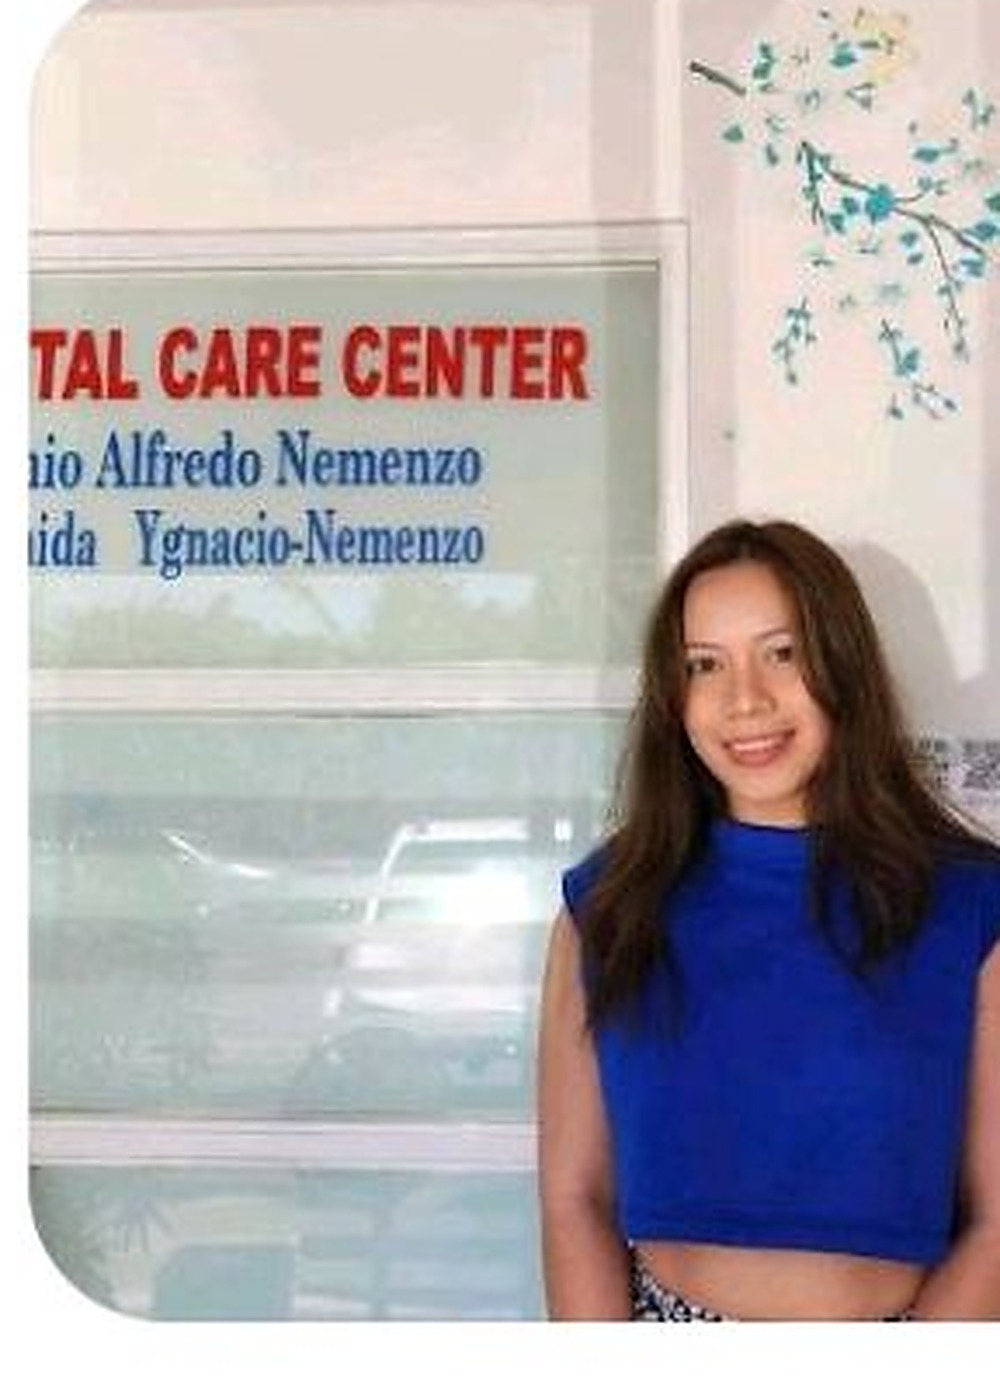
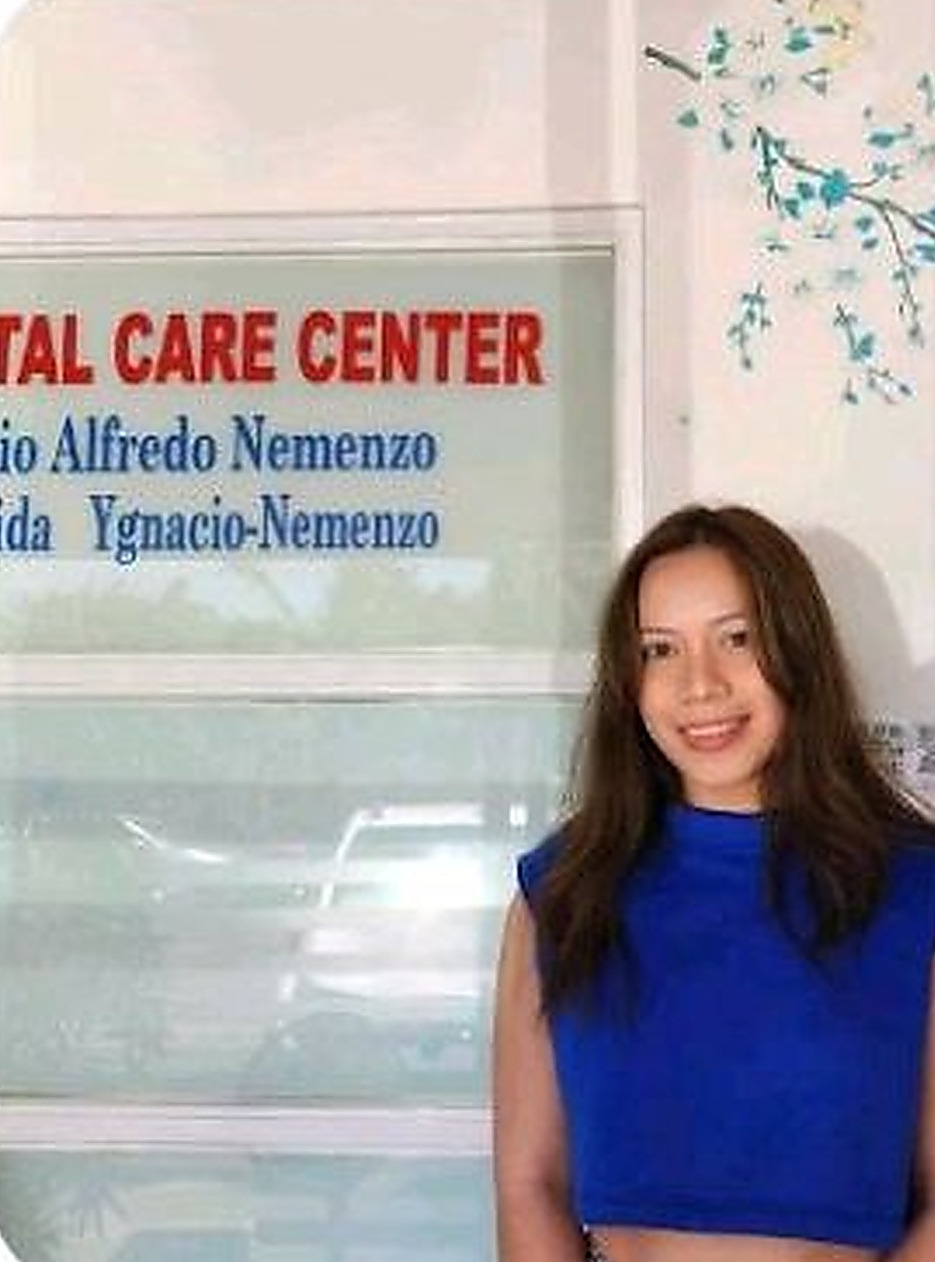
Add files via upload

diff --git a/index.html b/index.html
@@ -5,7 +5,6 @@
 <meta name="viewport" content="width=device-width, initial-scale=1">
 <title>Cebu Dental Care Center — Gentle Dentistry &amp; Online Appointments</title>
 <meta name="description" content="Book a dental appointment online at Cebu Dental Care Center, Unit 13 R Aboitiz St, Cebu City. 4.8★ from 118 Google reviews. CEREC single-visit crowns, gentle cleanings, bonding, root canals and emergency care. Call (032) 253 3206.">
-<meta name="theme-color" content="#0b5d55">
 <meta property="og:title" content="Cebu Dental Care Center — Gentle Dentistry in Cebu City">
 <meta property="og:description" content="4.8★ (118 reviews). Book online in under a minute — CEREC single-visit crowns, painless cleanings, bonding and emergency dental care.">
 <meta property="og:type" content="website">
@@ -16,9 +15,15 @@
 <link rel="stylesheet" href="assets/css/style_b.css">
 <link rel="stylesheet" href="assets/css/style_c.css">
 <link rel="stylesheet" href="assets/css/style_d.css">
-<link rel="icon" type="image/png" href="assets/img/logo-96.png">
-<link rel="apple-touch-icon" href="assets/img/logo-192.png">
+<link rel="icon" type="image/png" href="/assets/img/logo-96.png">
+<link rel="manifest" href="/manifest.webmanifest">
 <meta name="theme-color" content="#0a0907">
+<meta name="mobile-web-app-capable" content="yes">
+<meta name="apple-mobile-web-app-capable" content="yes">
+<meta name="apple-mobile-web-app-title" content="Cebu Dental">
+<meta name="apple-mobile-web-app-status-bar-style" content="black">
+<meta name="application-name" content="Cebu Dental">
+<link rel="apple-touch-icon" href="/assets/img/apple-touch-icon.png">
 <script type="application/ld+json">
 {
   "@context":"https://schema.org",
@@ -814,5 +819,10 @@
 <script src="https://www.gstatic.com/firebasejs/10.14.1/firebase-firestore-compat.js"></script>
 <script src="assets/js/qr.js"></script>
 <script src="assets/js/app.js"></script>
+<script>
+if ('serviceWorker' in navigator && /^https?:$/.test(location.protocol)) {
+  window.addEventListener('load', function () { navigator.serviceWorker.register('/sw.js').catch(function () {}); });
+}
+</script>
 </body>
 </html>

diff --git a/assets/css/style_d.css b/assets/css/style_d.css
@@ -96,3 +96,38 @@ html[data-theme="dark"] .hero::before{background:radial-gradient(closest-side,rg
   .nav{display:none}
   .burger{display:grid}
 }
+
+/* ---- gallery: no empty "holes" ----
+   2 wide + 8 square photos = 12 cells, which fills 4 columns x 3 rows,
+   3 columns x 4 rows and 2 columns x 6 rows. "dense" back-fills any gap. */
+.gal{grid-auto-flow:dense}
+.gal button img{position:absolute;inset:0}
+@media (max-width:760px){
+  .gal .wide{aspect-ratio:2/1}
+}
+
+/* ---- installed-app polish ---- */
+html{background:#0a0907}
+html:not([data-theme="dark"]){background:#faf6ea}
+body{-webkit-tap-highlight-color:transparent}
+@media (display-mode:standalone){
+  html{overscroll-behavior-y:none}
+  a,button{-webkit-touch-callout:none}
+}
+
+/* ---- photos: sharper, no haze, nothing covering the subject ---- */
+.hero-shot::after{display:none}
+.hero-shot img{transform:none;image-rendering:auto}
+.hero-shot{aspect-ratio:4/5}
+.gal button img{object-position:center 28%}
+.tech-media img,.doc-img img{object-position:center 30%}
+@media (max-width:760px){
+  .hero-media{max-width:none;margin-bottom:18px}
+  .hero-shot{aspect-ratio:4/4.6}
+  .float-card.fc-open{left:12px;right:auto;top:-14px;padding:8px 12px}
+  .float-card.fc-rate{right:12px;left:auto;bottom:-16px;padding:8px 12px}
+  .float-card .fc-icon{width:32px;height:32px}
+  .float-card .fc-b{font-size:.84rem}
+  .float-card .fc-t{font-size:.62rem}
+}
+@media (hover:none){ .gal button:hover img{transform:none} }

diff --git a/sw.js b/sw.js
@@ -1,0 +1,28 @@
+// Minimal service worker: makes the site installable and keeps it usable on a weak connection.
+// Network first (so a new deploy shows up right away); falls back to the last saved copy if offline.
+const CACHE = 'cdcc-v1';
+const PRECACHE = ['/', '/index.html', '/assets/img/icon-192.png', '/assets/img/logo-96.png'];
+
+self.addEventListener('install', (e) => {
+  e.waitUntil(caches.open(CACHE).then((c) => c.addAll(PRECACHE)).then(() => self.skipWaiting()));
+});
+
+self.addEventListener('activate', (e) => {
+  e.waitUntil(
+    caches.keys().then((keys) => Promise.all(keys.filter((k) => k !== CACHE).map((k) => caches.delete(k))))
+      .then(() => self.clients.claim())
+  );
+});
+
+self.addEventListener('fetch', (e) => {
+  const req = e.request;
+  const url = new URL(req.url);
+  // only our own GET requests; never touch /api/, Firebase, Google Maps, fonts, etc.
+  if (req.method !== 'GET' || url.origin !== self.location.origin || url.pathname.startsWith('/api/')) return;
+  e.respondWith(
+    fetch(req).then((res) => {
+      if (res && res.ok) { const copy = res.clone(); caches.open(CACHE).then((c) => c.put(req, copy)); }
+      return res;
+    }).catch(() => caches.match(req).then((hit) => hit || (req.mode === 'navigate' ? caches.match('/index.html') : Response.error())))
+  );
+});

diff --git a/assets/js/app.js b/assets/js/app.js
@@ -26,7 +26,7 @@
   ];
 
   var GALLERY = [
-    { src: 'assets/img/facility-chair.jpg', alt: 'Dental treatment room with modern chair, instrument tray and overhead monitor', cls: 'tall' },
+    { src: 'assets/img/facility-chair.jpg', alt: 'Dental treatment room with modern chair, instrument tray and overhead monitor', cls: '' },
     { src: 'assets/img/smile-result.jpg', alt: 'Patient smiling after dental bonding treatment', cls: 'wide' },
     { src: 'assets/img/patient-blue.jpg', alt: 'Patient standing by the clinic door with the Cebu Dental Care Center sign', cls: '' },
     { src: 'assets/img/teeth-before.jpg', alt: 'Front teeth before bonding, showing a gap', cls: '' },
@@ -35,7 +35,7 @@
     { src: 'assets/img/family-group.jpg', alt: 'Three patients smiling in front of the clinic glass doors', cls: 'wide' },
     { src: 'assets/img/patient-dentist-1.jpg', alt: 'Patient posing with the dentist beside the clinic sign', cls: '' },
     { src: 'assets/img/patient-dentist-2.jpg', alt: 'Patient with the dental team in front of the CEREC sign', cls: '' },
-    { src: 'assets/img/sign-cerec.jpg', alt: 'CEREC single visit dentistry sign on the clinic door', cls: 'tall' }
+    { src: 'assets/img/sign-cerec.jpg', alt: 'CEREC single visit dentistry sign on the clinic door', cls: '' }
   ];
 
   var REVIEWS = [

diff --git a/admin.html b/admin.html
@@ -12,8 +12,15 @@
 <link rel="stylesheet" href="assets/css/style_b.css">
 <link rel="stylesheet" href="assets/css/style_c.css">
 <link rel="stylesheet" href="assets/css/style_d.css">
-<link rel="icon" type="image/png" href="assets/img/logo-96.png">
+<link rel="icon" type="image/png" href="/assets/img/logo-96.png">
+<link rel="manifest" href="/manifest.webmanifest">
 <meta name="theme-color" content="#0a0907">
+<meta name="mobile-web-app-capable" content="yes">
+<meta name="apple-mobile-web-app-capable" content="yes">
+<meta name="apple-mobile-web-app-title" content="Cebu Dental">
+<meta name="apple-mobile-web-app-status-bar-style" content="black">
+<meta name="application-name" content="Cebu Dental">
+<link rel="apple-touch-icon" href="/assets/img/apple-touch-icon.png">
 <style>
   body{min-height:100vh}
   .adm-wrap{max-width:1180px;margin-inline:auto;padding:0 20px}
@@ -515,6 +522,11 @@
     toast('CSV exported.');
   });
 })();
+</script>
+<script>
+if ('serviceWorker' in navigator && /^https?:$/.test(location.protocol)) {
+  window.addEventListener('load', function () { navigator.serviceWorker.register('/sw.js').catch(function () {}); });
+}
 </script>
 </body>
 </html>
